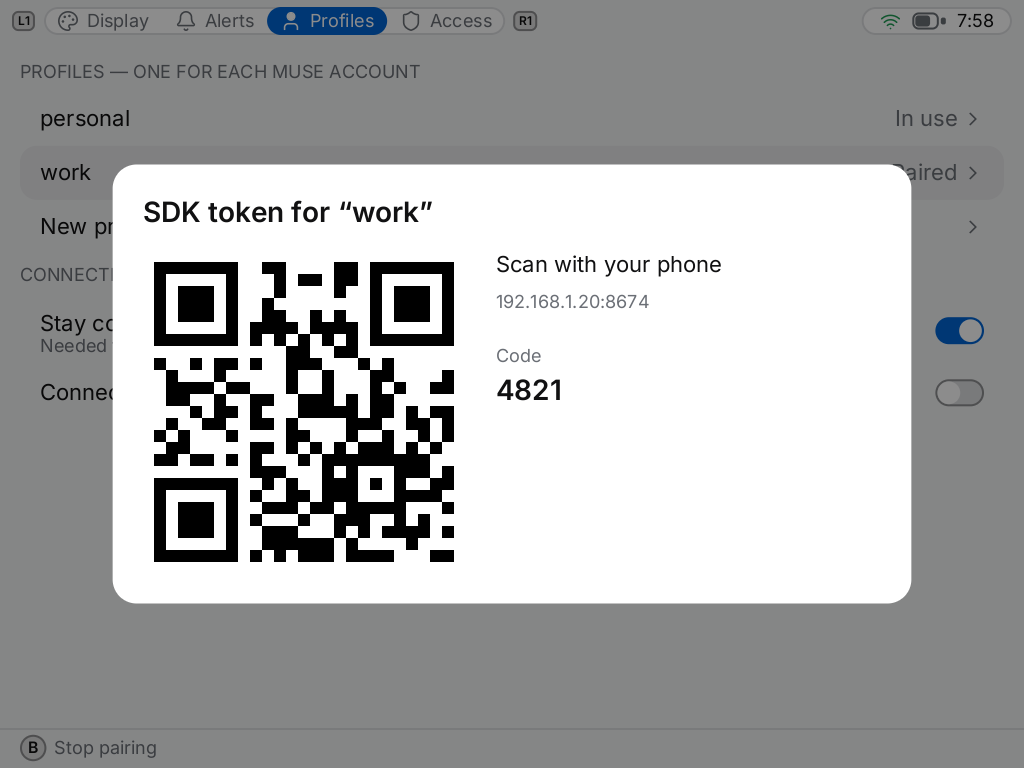
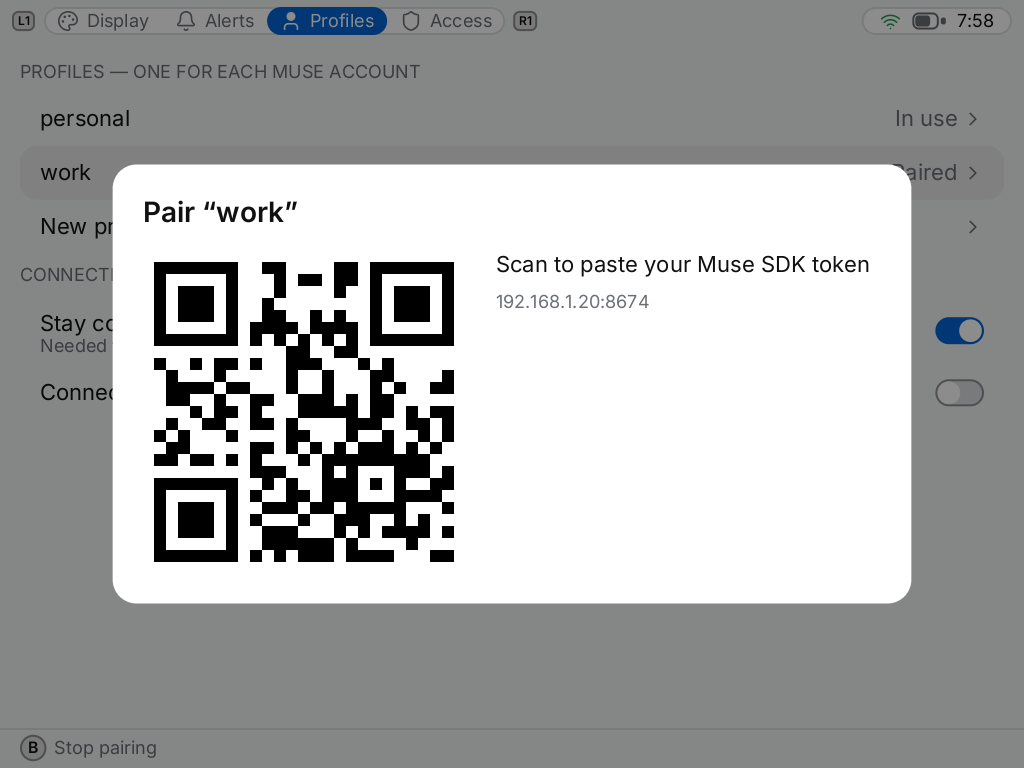
The token page asks for the token and nothing else

Changed region(s): [[0.5312, 0.3125, 0.8438, 0.375], [0.125, 0.25, 0.4062, 0.3125], [0.4688, 0.4375, 0.5625, 0.5312]]

diff --git a/crates/goblind/src/tokenpage.rs b/crates/goblind/src/tokenpage.rs
@@ -1,11 +1,11 @@
 //! A page the handheld serves to the owner's phone, for one thing: giving a profile its
 //! SDK token without typing it on a D-pad or pulling the card.
 //!
-//! The pairing screen shows the page's address (as a code to scan) and a short code. The
-//! page links to where tokens are made, takes the token and the code, and that is all. It
-//! is open only while the pairing screen waits for it, accepts one token, and closes after
-//! a few wrong codes. It is plain HTTP on the local network: someone already on that
-//! network and listening at that moment could read the token as it is sent.
+//! The pairing screen shows the page's address as a code to scan. The page links to where
+//! tokens are made and takes the token, and that is all. It is open only while the pairing
+//! screen waits for it and accepts one token. It is plain HTTP on the local network, with
+//! nothing to say who is sending: someone already on that network could read the token as
+//! it is sent, or send one of their own while the screen is open.
 
 use std::net::{IpAddr, SocketAddr, UdpSocket};
 use std::sync::Arc;
@@ -20,8 +20,6 @@ use tokio::sync::Notify;
 pub const TOKEN_SITE: &str = "https://gadgets.muse.ai/settings/sdk-tokens";
 /// The port tried first, so the address is the same each time.
 const PORT: u16 = 8674;
-/// Wrong codes allowed before the page closes.
-const MAX_WRONG_CODES: u32 = 5;
 const MAX_REQUEST_BYTES: usize = 8 * 1024;
 
 /// How the page ended.
@@ -42,8 +40,6 @@ pub struct Page {
     listener: TcpListener,
     /// The address to open on the phone.
     pub url: String,
-    /// The code the page asks for, shown on the handheld.
-    pub code: String,
 }
 
 /// The address this device has on the local network, if it is on one.
@@ -53,19 +49,6 @@ pub fn local_ip() -> Option<IpAddr> {
     socket.connect("192.0.2.1:9").ok()?;
     let ip = socket.local_addr().ok()?.ip();
     (!ip.is_loopback() && !ip.is_unspecified()).then_some(ip)
-}
-
-fn code() -> String {
-    let mut bytes = [0u8; 2];
-    let read = std::fs::File::open("/dev/urandom")
-        .and_then(|mut f| std::io::Read::read_exact(&mut f, &mut bytes));
-    if read.is_err() {
-        let nanos = std::time::SystemTime::now()
-            .duration_since(std::time::UNIX_EPOCH)
-            .map_or(0, |d| d.subsec_nanos());
-        bytes = [(nanos >> 8) as u8, nanos as u8];
-    }
-    format!("{:04}", u16::from_be_bytes(bytes) % 10_000)
 }
 
 impl Page {
@@ -79,7 +62,6 @@ impl Page {
         Ok(Page {
             listener,
             url: format!("http://{addr}/"),
-            code: code(),
         })
     }
 
@@ -88,7 +70,6 @@ impl Page {
     pub async fn serve(self, profile: Profile, cancel: Arc<Notify>, timeout: Duration) -> Outcome {
         let deadline = tokio::time::sleep(timeout);
         tokio::pin!(deadline);
-        let mut wrong = 0u32;
         loop {
             let stream = tokio::select! {
                 () = cancel.notified() => return Outcome::Cancelled,
@@ -99,20 +80,10 @@ impl Page {
                 },
             };
             // One phone at a time, and never for long.
-            let handled = tokio::time::timeout(
-                Duration::from_secs(10),
-                handle(stream, &profile, &self.code),
-            )
-            .await;
-            match handled {
-                Ok(Reply::Saved) => return Outcome::Saved,
-                Ok(Reply::WrongCode) => {
-                    wrong += 1;
-                    if wrong >= MAX_WRONG_CODES {
-                        return Outcome::Failed("Too many wrong codes. Start again.".into());
-                    }
-                }
-                _ => {}
+            let handled =
+                tokio::time::timeout(Duration::from_secs(10), handle(stream, &profile)).await;
+            if let Ok(Reply::Saved) = handled {
+                return Outcome::Saved;
             }
         }
     }
@@ -120,11 +91,10 @@ impl Page {
 
 enum Reply {
     Saved,
-    WrongCode,
     Other,
 }
 
-async fn handle(mut stream: TcpStream, profile: &Profile, code: &str) -> Reply {
+async fn handle(mut stream: TcpStream, profile: &Profile) -> Reply {
     let Some((method, path, body)) = read_request(&mut stream).await else {
         return Reply::Other;
     };
@@ -139,28 +109,20 @@ async fn handle(mut stream: TcpStream, profile: &Profile, code: &str) -> Reply {
                     .map(|(_, v)| decode(v))
                     .unwrap_or_default()
             };
-            if field("code").trim() != code {
-                (
-                    "200 OK",
-                    form(&name, "That is not the code on the handheld."),
-                    Reply::WrongCode,
-                )
-            } else {
-                match goblin_store::profiles::SdkToken::parse(field("token").trim()) {
-                    Ok(token) => match profile.save_sdk_token(&token) {
-                        Ok(()) => ("200 OK", done(&name), Reply::Saved),
-                        Err(_) => (
-                            "200 OK",
-                            form(&name, "The handheld could not save it."),
-                            Reply::Other,
-                        ),
-                    },
+            match goblin_store::profiles::SdkToken::parse(field("token").trim()) {
+                Ok(token) => match profile.save_sdk_token(&token) {
+                    Ok(()) => ("200 OK", done(&name), Reply::Saved),
                     Err(_) => (
                         "200 OK",
-                        form(&name, "That is not an SDK token. Copy it again."),
+                        form(&name, "The handheld could not save it."),
                         Reply::Other,
                     ),
-                }
+                },
+                Err(_) => (
+                    "200 OK",
+                    form(&name, "That is not an SDK token. Copy it again."),
+                    Reply::Other,
+                ),
             }
         }
         _ => ("404 Not Found", String::new(), Reply::Other),
@@ -270,14 +232,12 @@ fn form(profile: &str, error: &str) -> String {
         format!("<p class=\"e\">{}</p>", escape(error))
     };
     shell(&format!(
-        "<h1>SDK token for \u{201c}{profile}\u{201d}</h1>{error}\
+        "<h1>Muse SDK token for \u{201c}{profile}\u{201d}</h1>{error}\
          <a class=\"b\" href=\"{TOKEN_SITE}\" target=\"_blank\" rel=\"noopener\">\
          1. Get a token</a>\
          <form method=\"post\" action=\"/\">\
          <input name=\"token\" placeholder=\"2. Paste the token\" autocomplete=\"off\" \
          autocapitalize=\"off\" spellcheck=\"false\" required>\
-         <input name=\"code\" placeholder=\"3. Code on the handheld\" inputmode=\"numeric\" \
-         autocomplete=\"off\" required>\
          <button>Send to handheld</button></form>"
     ))
 }
@@ -318,12 +278,11 @@ mod tests {
     }
 
     #[tokio::test]
-    async fn the_page_takes_one_token_with_the_right_code() {
+    async fn the_page_takes_one_token() {
         let t = tempfile::tempdir().unwrap();
         let p = profile(t.path());
         let page = Page::open("127.0.0.1".parse().unwrap()).await.unwrap();
-        let (url, code) = (page.url.clone(), page.code.clone());
-        assert_eq!(code.len(), 4);
+        let url = page.url.clone();
         let served =
             tokio::spawn(page.serve(p.clone(), Arc::new(Notify::new()), Duration::from_secs(30)));
 
@@ -333,39 +292,23 @@ mod tests {
             "{html}"
         );
         assert!(html.contains("work"));
-        assert!(!html.contains(&code), "the code is only on the handheld");
 
-        let wrong = if code == "0000" { "1111" } else { "0000" };
-        let html = request(&url, &post(&format!("token={TOKEN}&code={wrong}"))).await;
-        assert!(html.contains("not the code"), "{html}");
+        let html = request(&url, &post("token=hello")).await;
+        assert!(html.contains("not an SDK token"), "{html}");
         assert!(p.sdk_token().unwrap().is_none());
 
-        let html = request(&url, &post(&format!("token=hello&code={code}"))).await;
-        assert!(html.contains("not an SDK token"), "{html}");
-
         // Pasted with a stray space and a newline, as phones do.
-        let html = request(&url, &post(&format!("token=+{TOKEN}%0A&code={code}"))).await;
+        let html = request(&url, &post(&format!("token=+{TOKEN}%0A"))).await;
         assert!(html.contains("Sent"), "{html}");
         assert_eq!(served.await.unwrap(), Outcome::Saved);
         assert!(p.sdk_token().unwrap().is_some());
     }
 
     #[tokio::test]
-    async fn the_page_closes_on_wrong_codes_cancel_and_time() {
+    async fn the_page_closes_on_cancel_and_time() {
         let t = tempfile::tempdir().unwrap();
         let p = profile(t.path());
         let ip: IpAddr = "127.0.0.1".parse().unwrap();
-
-        let page = Page::open(ip).await.unwrap();
-        let (url, code) = (page.url.clone(), page.code.clone());
-        let wrong = if code == "0000" { "1111" } else { "0000" };
-        let served =
-            tokio::spawn(page.serve(p.clone(), Arc::new(Notify::new()), Duration::from_secs(30)));
-        for _ in 0..MAX_WRONG_CODES {
-            request(&url, &post(&format!("token={TOKEN}&code={wrong}"))).await;
-        }
-        assert!(matches!(served.await.unwrap(), Outcome::Failed(_)));
-        assert!(p.sdk_token().unwrap().is_none());
 
         let cancel = Arc::new(Notify::new());
         let page = Page::open(ip).await.unwrap();

diff --git a/crates/goblin-ui/src/app.rs b/crates/goblin-ui/src/app.rs
@@ -3702,15 +3702,12 @@ fn draw_profile_sheet(
 
 /// Pairing: what to do in the Muse app, the name to choose there, and how far it has got.
 /// The step before pairing for a profile with no SDK token: a code to scan that opens a
-/// page on this handheld, and the short code that page asks for.
+/// page on this handheld, where the token is pasted.
 fn draw_token_step(p: &mut Painter, bounds: Rect, view: &crate::data::PairingView) {
     let m = p.m();
     p.scrim(bounds);
     let pad = m.pad * 1.5;
-    let (url, code) = view
-        .detail
-        .split_once(' ')
-        .unwrap_or((view.detail.as_str(), ""));
+    let url = view.detail.as_str();
     let qr = (bounds.h * 0.42).min(m.grid * 26.0).round();
     let w = (bounds.w * 0.78).min(m.grid * 56.0);
     let h = pad * 2.0 + m.title * 2.0 + qr;
@@ -3720,7 +3717,7 @@ fn draw_token_step(p: &mut Painter, bounds: Rect, view: &crate::data::PairingVie
     let x = card.x + pad;
     let mut y = card.y + pad;
     p.line(
-        &format!("SDK token for \u{201c}{}\u{201d}", view.profile),
+        &format!("Pair \u{201c}{}\u{201d}", view.profile),
         TextRole::Title,
         x,
         y,
@@ -3753,9 +3750,16 @@ fn draw_token_step(p: &mut Painter, bounds: Rect, view: &crate::data::PairingVie
     let tx = tile.right() + pad;
     let tw = card.right() - pad - tx;
     let mut ty = y;
-    ty += p.paragraph("Scan with your phone", TextRole::Body, tx, ty, tw, pal.text);
-    ty += m.body * 0.5;
     ty += p.paragraph(
+        "Scan to paste your Muse SDK token",
+        TextRole::Body,
+        tx,
+        ty,
+        tw,
+        pal.text,
+    );
+    ty += m.body * 0.5;
+    p.paragraph(
         url.trim_start_matches("http://").trim_end_matches('/'),
         TextRole::Caption,
         tx,
@@ -3763,10 +3767,6 @@ fn draw_token_step(p: &mut Painter, bounds: Rect, view: &crate::data::PairingVie
         tw,
         pal.text_muted,
     );
-    ty += m.body * 1.4;
-    p.line("Code", TextRole::Caption, tx, ty, tw, pal.text_muted);
-    ty += m.caption * 1.6;
-    p.line(code, TextRole::Title, tx, ty, tw, pal.text);
 }
 
 fn draw_pairing(p: &mut Painter, bounds: Rect, view: &crate::data::PairingView) {

diff --git a/crates/goblin-ui/src/data.rs b/crates/goblin-ui/src/data.rs
@@ -86,7 +86,7 @@ pub enum PairStep {
     /// Asked for; the radio is coming up.
     Opening,
     /// The profile needs its SDK token first: the handheld is serving a page for the
-    /// owner's phone (`detail` holds its address and the code, separated by a space).
+    /// owner's phone (`detail` holds its address).
     Token,
     /// Waiting for the Muse app to find the handheld.
     Waiting,
@@ -1171,7 +1171,7 @@ impl DataProvider for MockProvider {
                     profile: "work".into(),
                     ble_name: String::new(),
                     step: PairStep::Token,
-                    detail: "http://192.168.1.20:8674/ 4821".into(),
+                    detail: "http://192.168.1.20:8674/".into(),
                 });
             }
             // Muse has asked for a setting to be changed.

diff --git a/crates/goblind/src/daemon.rs b/crates/goblind/src/daemon.rs
@@ -3017,7 +3017,7 @@ async fn dispatch(state: Arc<DaemonState>, method: Method) -> Result<Value, IpcE
                         &state,
                         &name,
                         PairPhase::NeedToken,
-                        Some(format!("{} {}", page.url, page.code)),
+                        Some(page.url.clone()),
                     );
                     let state = state.clone();
                     tokio::spawn(async move {

diff --git a/SECURITY.md b/SECURITY.md
@@ -77,9 +77,9 @@ list) before lending or selling the card.
 
 A profile needs an SDK token before it can pair. The handheld takes it from your phone
 through a page it serves on your Wi-Fi while the pairing screen shows a code to scan. That
-page is plain HTTP: someone already on the same network, listening at that moment, could
-read the token as it is sent. It asks for a four-digit code shown only on the handheld,
-closes after five wrong codes, takes one token and then stops.
+page is plain HTTP and asks for nothing but the token: while the screen is open, someone
+already on the same network could read the token as it is sent, or send a token of their
+own. It takes one token and then stops. Pair on a network you trust.
 
 Pairing uses the SDK's "community" mode. It keeps the exchange private from someone merely
 listening, but it does not prove to the handheld that it is talking to your phone: someone

diff --git a/README.md b/README.md
@@ -44,8 +44,7 @@ Known gaps are listed in [docs/known-issues.md](docs/known-issues.md).
 2. Copy the `Goblin Link.pak` folder to `Tools/tg5040/` on the SD card.
 3. On the Brick, open **Tools → Goblin Link** and press A to pair.
 4. Scan the code on the Brick with your phone. On the page that opens, tap **Get a token**
-   (Meta's site opens in a new tab), copy the token, come back, paste it, and enter the
-   four-digit code from the Brick's screen.
+   (Meta's site opens in a new tab), copy the token, come back and paste it.
 5. The Brick moves on to Bluetooth pairing by itself: in the Muse app, go to Settings →
    Devices → +, and choose the name the Brick shows. You need Developer mode on in the Muse
    app (Settings → Devices), because this is a community device.
